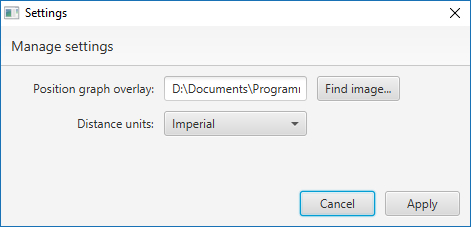
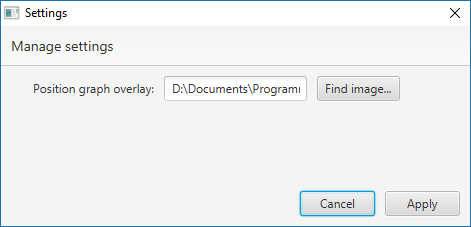
Update README.md and other help texts

Changed region(s): [[0.3567, 0.5242, 0.6539, 0.6167], [0.1486, 0.5242, 0.327, 0.5859], [0.3567, 0.4626, 0.6539, 0.4934]]

diff --git a/README.md b/README.md
@@ -13,21 +13,25 @@ This is a program originally based off of Vannaka's Motion Profile Generator.
 	- Units are in seconds
 - **Velocity**
 	- The max velocity rate your robot is capable of achieving
-	- Units are in ft/s
 - **Acceleration**
 	- The max acceleration rate your robot is capable of achieving
-	- Units are in ft/s/s
 - **Jerk**
 	- The rate of change of acceleration; that is, the derivative of acceleration with respect to time
-	- Units are in ft/s/s/s
 - **Wheel Base W**
 	- The distance between your left and right wheels
-	- Units are in feet
 - **Wheel Base D**
 	- The distance between your front and back wheels
 	- Used with the Swerve modifier
-	- Units are in feet
-	
+- **Drive Base**
+    - The type of configuration your drive base is using
+    - Can be Tank or Swerve
+- **Units**
+    - The unit of measurement used for measuring distance
+    - Can be Imperial (ft) or Metric (m)
+- **Fit Method**
+    - The hermitic method for interpolating points from waypoints
+    - Can be cubic or quintic	
+
 ## Waypoints
 - **All points are relative meaning you do not have to start at 0,0**
 - **X**
@@ -99,7 +103,6 @@ the "File" menu.
 [logo3]: https://github.com/Endoman123/motion-profile-generator/blob/master/images/settings.jpg
 **NOTE: Settings file saved to `%user.dir%\.motion-profile-generator\mpg.properties`**
 - Position graph overlay: 32:27 image to use as an overlay to the position chart
-- Distance units: Units to use for distance in speed and position calculation (WIP)
 		
 ## Acknowledgments
 
